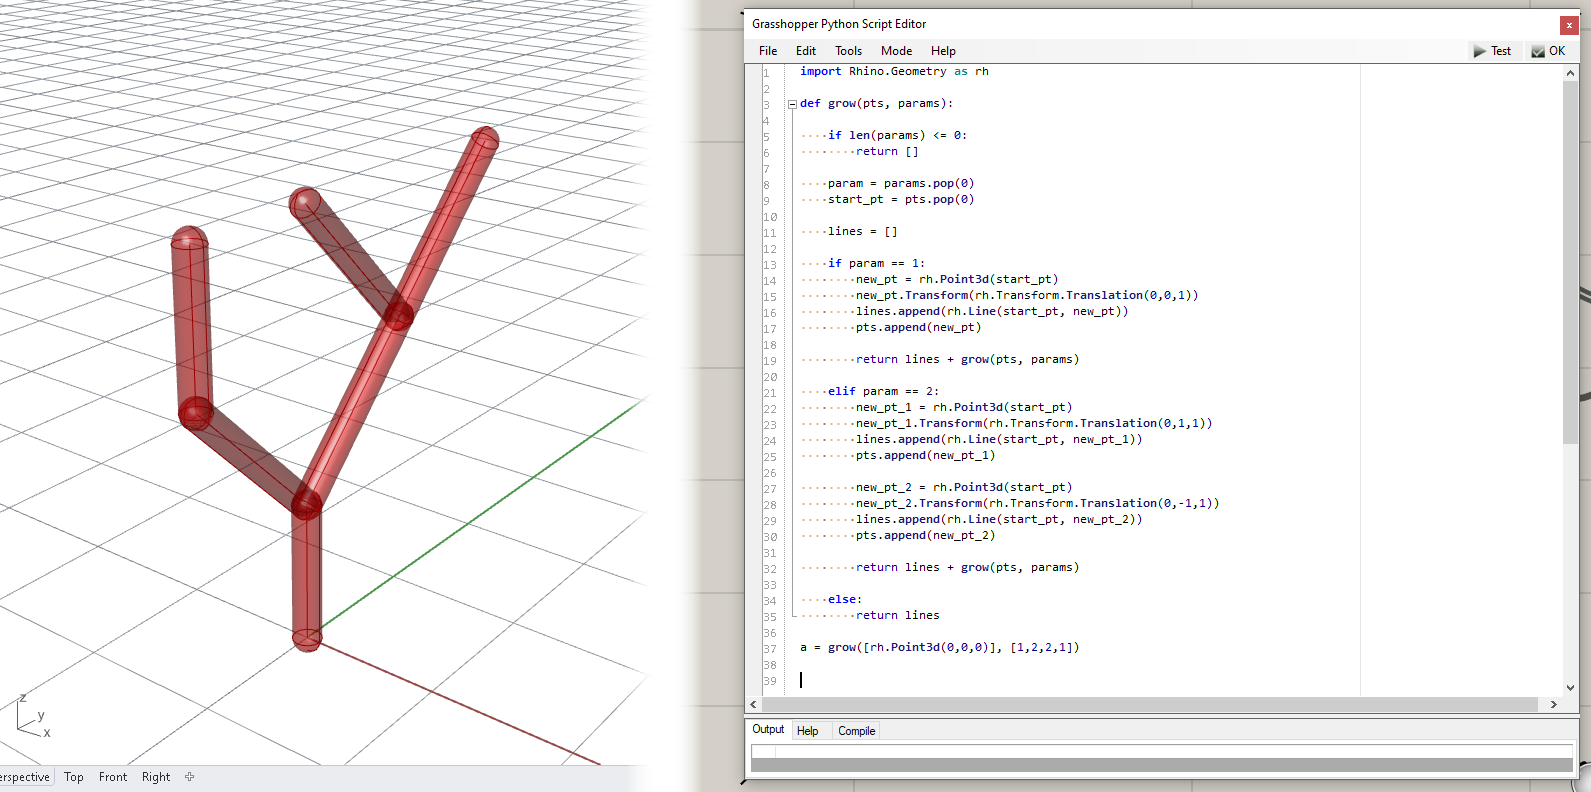
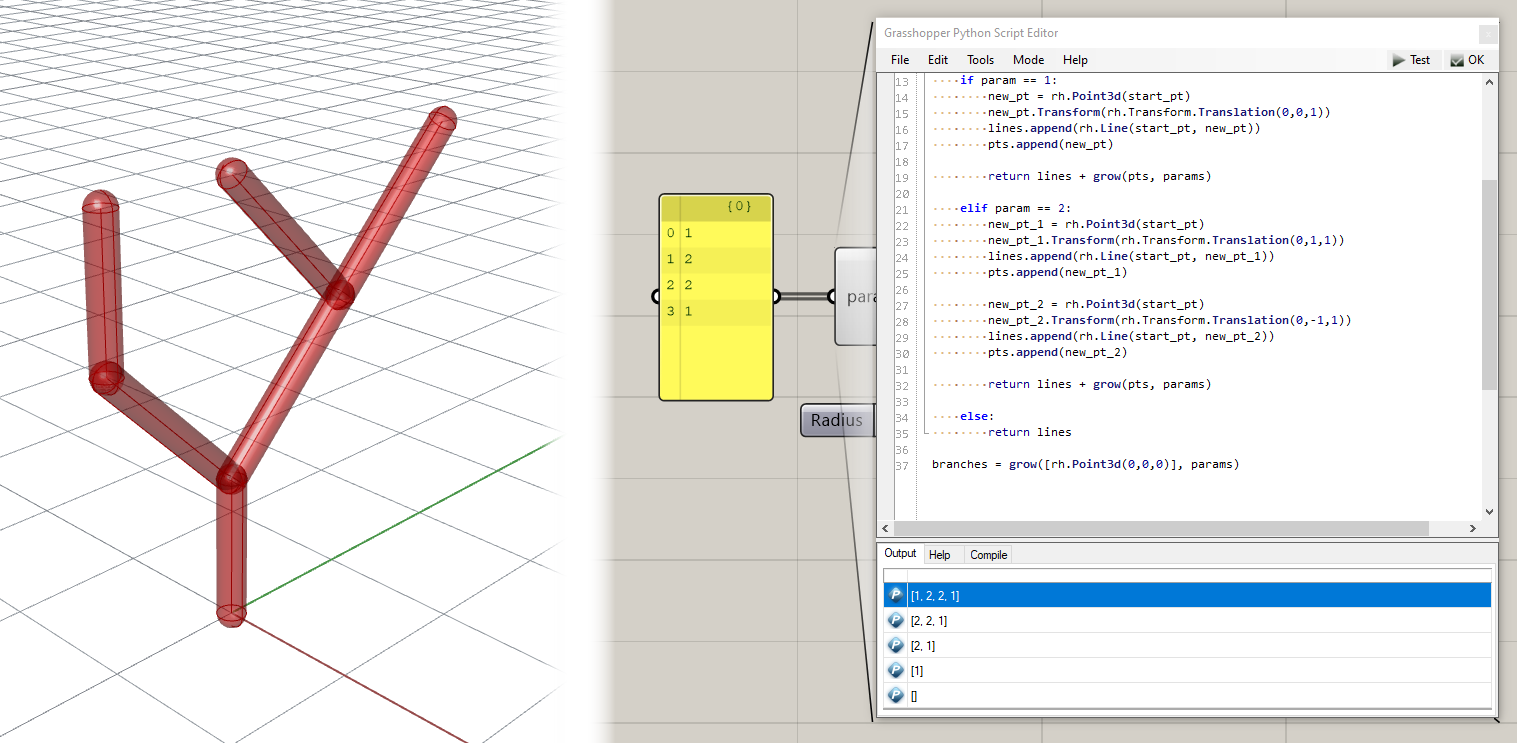
update recursion tutorial

diff --git a/docs/recursive_systems/index.md b/docs/recursive_systems/index.md
@@ -205,8 +205,12 @@ def grow(pts, params): ## input to the grow() function is now a list of points
     else:
         return lines
 
-a = grow([rh.Point3d(0,0,0)], [1,2,2,1]) ## passing the starting point as the single item in a new list
+branches = grow([rh.Point3d(0,0,0)], params) ## passing the starting point as the single item in a new list
 ```
+
+| Final files from this tutorial |
+| :----------------------------- |
+| [2_end.gh](data/2_end.gh)      |
 
 ![](images/2_03.png)
 
@@ -214,14 +218,56 @@ a = grow([rh.Point3d(0,0,0)], [1,2,2,1]) ## passing the starting point as the si
 
 > Challenge 1
 >
-> Download this [Grasshopper file](data/2_end.gh) which contains the queue-based version of the branching code. Can you add additional code within the queue-based Python script to define a new branching behavior for the `3` parameter that creates the branching seen in the screenshot below. You should only add code within the `elif param == 3:` code block starting on line 35 of the Python script. You should not need to modify anything else about the code, the Grasshopper definition, or the set of parameters.
+> Download this [Grasshopper file](data/2_challenge_start.gh) which contains the queue-based version of the branching code. Can you add additional code within the queue-based Python script to define a new branching behavior for the `3` parameter that creates the branching seen in the screenshot below. You should only add code within the `elif param == 3:` code block starting on line 36 of the Python script. You should not need to modify anything else about the code, the Grasshopper definition, or the set of parameters.
 >
 > ![](images/2_04.png)
 
-Once you're done implementing this challenge, paste your final code below. Once you've finished all changes on this page, create a pull request on this page called `2-your_uni` (for example `2-dn2216`). The code below contains some hints to consider as you implement your solution.
+Once you're done implementing this challenge, paste your final code below. Once you've finished all changes on this page, create a pull request on this page called `2-your_uni` (for example `2-dn2216`).
 
 ```python
+import Rhino.Geometry as rh
 
+def grow(pts, params):
+
+    if len(params) <= 0:
+        return []
+
+    param = params.pop(0)
+    start_pt = pts.pop(0)
+
+    lines = []
+
+    if param == 1:
+        new_pt = rh.Point3d(start_pt)
+        new_pt.Transform(rh.Transform.Translation(0,0,1))
+        lines.append(rh.Line(start_pt, new_pt))
+        pts.append(new_pt)
+
+        return lines + grow(pts, params)
+
+    elif param == 2:
+        new_pt_1 = rh.Point3d(start_pt)
+        new_pt_1.Transform(rh.Transform.Translation(0,1,1))
+        lines.append(rh.Line(start_pt, new_pt_1))
+        pts.append(new_pt_1)
+
+        new_pt_2 = rh.Point3d(start_pt)
+        new_pt_2.Transform(rh.Transform.Translation(0,-1,1))
+        lines.append(rh.Line(start_pt, new_pt_2))
+        pts.append(new_pt_2)
+
+        return lines + grow(pts, params)
+
+    elif param == 3:
+
+        ### ADD CODE HERE TO DEFINE BEHAVIOR FOR THE PARAMETER '3' ###
+
+        return lines
+
+    else:
+        return lines
+
+branches = grow([rh.Point3d(0,0,0)], params)
 ```
 
 ## Subdivision tutorial
